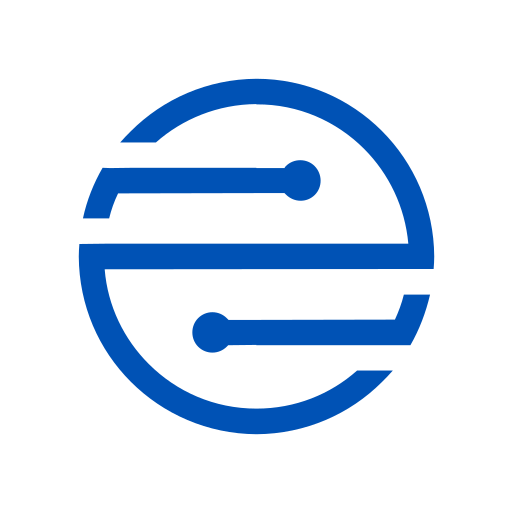
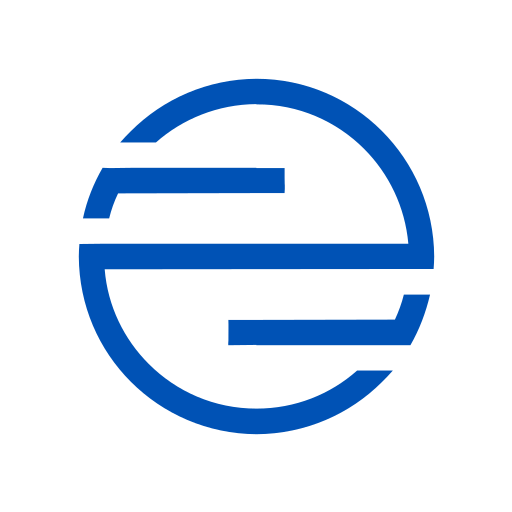
UI images (#107)
* Added alt text to currency

* Added Portofino

* SEO improvements

* Removed console.log

* Updated stats

* Convert to webp

* New logo

* New favicons

* More descriptive link

Changed region(s): [[0.5312, 0.3125, 0.625, 0.4062], [0.375, 0.5938, 0.4688, 0.6875]]

diff --git a/empiric-ui/src/components/Publisher/PublishersSection.tsx b/empiric-ui/src/components/Publisher/PublishersSection.tsx
@@ -11,21 +11,21 @@ export interface PublisherCardProps {
 export const publishers: PublisherCardProps[] = [
   {
     name: "Alameda Research",
-    src: "/assets/publishers/alameda.png",
+    src: "/assets/publishers/alameda.webp",
     description:
       "Alameda Research is one of the leading cryptocurrency high frequency trading firms and liquidity provider. Alameda Research was founded in 2017 by Sam Bankman-Fried. They manage over $1B+ in assets: all major coins, altcoins, as well as their derivatives. \n\n Alameda Research will use their business operations to provide price feeds to the Empiric Network.",
     href: "https://www.alameda-research.com/",
   },
   {
     name: "CMT Digital",
-    src: "/assets/publishers/cmtdigital.png",
+    src: "/assets/publishers/cmtdigital.webp",
     description:
       "CMT is a leading market maker and proprietary trading firm. They have been together for more than two decades and has built a team of professionals with significant trading and technology experiences. CMT operates across five continents.\n\n CMT will provide their reliable and stable crypto market data to the Empiric Network.",
     href: "https://cmt.digital/",
   },
   {
     name: "Flow Traders",
-    src: "/assets/publishers/flow-traders.png",
+    src: "/assets/publishers/flow-traders.webp",
     description:
       "Flow Traders is an established global financial technology-enabled liquidity provider in financial markets. Flow Traders was founded in 2017 and provide liquidity in financial products, historically with a focus on exchange-traded products (ETPs). In recent years, they have diversified the products they trade under virtually all market circumstances.\n\n Flow Traders will contribute its real-time crypto market data directly on-chain to the Empiric Network.",
     href: "https://www.flowtraders.com/",
@@ -46,14 +46,14 @@ export const publishers: PublisherCardProps[] = [
   },
   {
     name: "Jane Street",
-    src: "/assets/publishers/jane-street.png",
+    src: "/assets/publishers/jane-street.webp",
     description:
       "Jane Street is a global liquidity provider and trading firm, using sophisticated quantitative analysis and a deep understanding of market mechanics to help keep the prices consistent and reliable. They traded more than $17 trillion worth of securities in 2020.\n\n Jane Street will provide their accurate low latency crypto data to the Empiric Network.",
     href: "https://www.janestreet.com/",
   },
   {
     name: "Portofino",
-    src: "/assets/publishers/portofino.png",
+    src: "/assets/publishers/portofino.webp",
     description:
       "Portofino is a leading quantitative trading firm providing liquidity and pricing on derivatives exchanges around the world. Portofino Technologies was founded in Zug and has offices around the globe.\n\n Portofino will contribute its unique crypto market data to the Empiric Network.",
   },

diff --git a/empiric-ui/src/components/Protocol/ProtocolSection.tsx b/empiric-ui/src/components/Protocol/ProtocolSection.tsx
@@ -30,7 +30,7 @@ export const protocols: Protocol[] = [
   {
     name: "Magnety",
     category: "Social Wallet",
-    src: "/assets/protocols/magnety.png",
+    src: "/assets/protocols/magnety.webp",
     description:
       "Magnety is an asset management system allowing anyone, such as investment groups, DAOs, or individuals to get the most out of DeFi on Starknet & Ethereum through an easy-to-use platform.",
     href: "https://www.magnety.finance/",
@@ -38,7 +38,7 @@ export const protocols: Protocol[] = [
   {
     name: "FujiDAO",
     category: "Lending",
-    src: "/assets/protocols/fuji-dao.png",
+    src: "/assets/protocols/fuji-dao.webp",
     description:
       "Fuji aggregates lending-borrowing crypto markets within blockchain networks. The protocol optimizes interest rates to both borrowers and lenders by automating routing and movement of funds across lending-borrowing protocols and blockchain networks in search of the best APR.",
     href: "https://www.fujidao.org/",
@@ -54,7 +54,7 @@ export const protocols: Protocol[] = [
   {
     name: "Serity",
     category: "Infrastructure",
-    src: "/assets/protocols/serity.png",
+    src: "/assets/protocols/serity.webp",
     description:
       "Serity is a community-owned protocol powering the creation and trading of yield-backed synthetic assets. They consist of three core pillars: a PCV-backed stable asset, yield-backed synthetics, and an exchange built on a permissionless ZK rollup.",
     href: "https://serity.finance/",
@@ -62,7 +62,7 @@ export const protocols: Protocol[] = [
   {
     name: "CurveZero",
     category: "Lending",
-    src: "/assets/protocols/curvezero.jpeg",
+    src: "/assets/protocols/curvezero.webp",
     description:
       "CurveZero is a lend borrow protocol. Liquidity providers deposit USDC into the protocol and borrowers can access this money at fixed rates and at any term they choose.",
     href: "https://github.com/xan-crypto/CurveZero",

diff --git a/empiric-ui/src/components/AngelsSection.tsx b/empiric-ui/src/components/AngelsSection.tsx
@@ -4,7 +4,7 @@ import { SimpleLogo } from "./LogoClouds/LogoCloud";
 const angels: SimpleLogo[] = [
   {
     name: "Sandeep Nailwal",
-    src: "/assets/angels/polygon.png",
+    src: "/assets/angels/polygon.webp",
   },
   { name: "Marc Bhargava", src: "/assets/angels/coinbase.svg" },
   {
@@ -13,19 +13,15 @@ const angels: SimpleLogo[] = [
   },
   {
     name: "Will Haering",
-    src: "/assets/angels/ponto.png",
+    src: "/assets/angels/ponto.webp",
   },
   {
     name: "Brendan Farmer",
-    src: "/assets/angels/polygon.png",
-  },
-  {
-    name: "Austin King",
-    src: "/assets/angels/rift.png",
+    src: "/assets/angels/polygon.webp",
   },
   {
     name: "Hossein Kakavand",
-    src: "/assets/angels/luther-systems.png",
+    src: "/assets/angels/luther-systems.webp",
   },
   {
     name: "Max Kleiman-Weiner",
@@ -33,23 +29,23 @@ const angels: SimpleLogo[] = [
   },
   {
     name: "Maik Wehmeyer",
-    src: "/assets/angels/taktile.png",
+    src: "/assets/angels/taktile.webp",
   },
   {
     name: "Maximilian Eber",
-    src: "/assets/angels/taktile.png",
+    src: "/assets/angels/taktile.webp",
   },
   {
     name: "Thomas Bailey",
-    src: "/assets/angels/road-capital.png",
+    src: "/assets/angels/road-capital.webp",
   },
   {
     name: "Sina Habibian",
-    src: "/assets/angels/ethereum-foundation.png",
+    src: "/assets/angels/ethereum-foundation.webp",
   },
   {
     name: "Alan Curtis",
-    src: "/assets/angels/radar.png",
+    src: "/assets/angels/radar.webp",
   },
 ];
 

diff --git a/empiric-ui/src/components/InvestorsSection.tsx b/empiric-ui/src/components/InvestorsSection.tsx
@@ -4,27 +4,27 @@ import { Logo } from "./LogoClouds/LogoCloud";
 const investors: Logo[] = [
   {
     name: "Variant Fund",
-    src: "/assets/investors/variant.png",
+    src: "/assets/investors/variant.webp",
     href: "https://variant.fund/",
   },
   {
     name: "Dao5",
-    src: "/assets/investors/dao5.png",
+    src: "/assets/investors/dao5.webp",
     href: "https://dao5.com/",
   },
   {
     name: "Robot Ventures",
-    src: "/assets/investors/robot-ventures.png",
+    src: "/assets/investors/robot-ventures.webp",
     href: "https://robvc.com/",
   },
   {
     name: "Alameda Research",
-    src: "/assets/publishers/alameda.png",
+    src: "/assets/publishers/alameda.webp",
     href: "https://www.alameda-research.com/",
   },
   {
     name: "Jane Street",
-    src: "/assets/publishers/jane-street.png",
+    src: "/assets/publishers/jane-street.webp",
     href: "https://www.janestreet.com/",
   },
   {

diff --git a/empiric-ui/src/pages/_app.tsx b/empiric-ui/src/pages/_app.tsx
@@ -23,17 +23,7 @@ const MyApp = ({ Component, pageProps }: AppProps) => {
   return (
     <>
       <Head>
-<<<<<<< remove-first
-        <title>Empiric Network | ZK-Oracle</title>
         <meta name="robots" content="all" />
-        <meta
-          name="description"
-          content="Empiric Network is the zk-native oracle, bringing the principles of DeFi to data infrastructure: decentralization, transparency and composability.
-          Empiric is the leading oracle on Starknet, powered by high-quality data from the biggest market makers and exchanges, such as Alameda, CMT, Flow Traders, Gemini and Jane Street."
-        ></meta>
-        <link rel="canonical" href="https://www.empiric.network" />
-=======
->>>>>>> master
         <link rel="icon" type="image/ico" href="/favicon.ico" />
         <link
           rel="apple-touch-icon"

diff --git a/empiric-ui/src/components/Features/FeaturesDisplay.tsx b/empiric-ui/src/components/Features/FeaturesDisplay.tsx
@@ -29,7 +29,7 @@ const features: FeatureGridProps[] = [
         ),
       },
     ],
-    imgSrc: "/assets/features/placeholder1.png",
+    imgSrc: "/assets/features/placeholder1.webp",
     imgLeft: false,
   },
   {
@@ -46,7 +46,7 @@ const features: FeatureGridProps[] = [
           "This makes Empiric as decentralized as the underlying zk-rollup networks.",
       },
     ],
-    imgSrc: "/assets/features/placeholder2.png",
+    imgSrc: "/assets/features/placeholder2.webp",
     imgLeft: true,
   },
   {
@@ -63,7 +63,7 @@ const features: FeatureGridProps[] = [
           "We are working with leading protocols to create dynamic yield curves, risk metrics, volatility surfaces and more...",
       },
     ],
-    imgSrc: "/assets/features/placeholder3.png",
+    imgSrc: "/assets/features/placeholder3.webp",
     imgLeft: false,
   },
 ];

diff --git a/empiric-ui/src/pages/index.tsx b/empiric-ui/src/pages/index.tsx
@@ -37,22 +37,22 @@ const stats = [
 const dataPublishers: Logo[] = [
   {
     name: "Alameda Research",
-    src: "/assets/publishers/alameda.png",
+    src: "/assets/publishers/alameda.webp",
     href: "https://www.alameda-research.com/",
   },
   {
     name: "Jane Street",
-    src: "/assets/publishers/jane-street.png",
+    src: "/assets/publishers/jane-street.webp",
     href: "https://www.janestreet.com/",
   },
   {
     name: "CMT Digital",
-    src: "/assets/publishers/cmtdigital.png",
+    src: "/assets/publishers/cmtdigital.webp",
     href: "https://cmt.digital/",
   },
   {
     name: "Flow Traders",
-    src: "/assets/publishers/flow-traders.png",
+    src: "/assets/publishers/flow-traders.webp",
     href: "https://www.flowtraders.com/",
   },
   {

diff --git a/empiric-ui/src/components/Landing/Advisors.tsx b/empiric-ui/src/components/Landing/Advisors.tsx
@@ -10,17 +10,17 @@ const advisors: Advisor[] = [
   {
     name: "guiltygyoza",
     role: "Topology",
-    src: "/assets/advisors/guiltygyoza.png",
+    src: "/assets/advisors/guiltygyoza.webp",
   },
   {
     name: "Peteris Erins",
     role: "Yagi",
-    src: "/assets/advisors/peteris-erins.jpeg",
+    src: "/assets/advisors/peteris-erins.webp",
   },
   {
     name: "Milan Cermak",
     role: "Aura Protocol",
-    src: "/assets/advisors/milan-cermak.jpeg",
+    src: "/assets/advisors/milan-cermak.webp",
   },
 ];
 

diff --git a/empiric-ui/src/components/Banner.tsx b/empiric-ui/src/components/Banner.tsx
@@ -44,7 +44,7 @@ const Banner = () => {
                 rel="noreferrer"
                 className="flex items-center justify-center rounded-md border border-transparent bg-slate-700 px-4 py-2 text-sm font-medium text-white shadow-sm hover:bg-slate-600"
               >
-                Learn more
+                Check status
               </a>
             </div>
             <div className="order-2 flex-shrink-0 sm:order-3 sm:ml-2">

diff --git a/empiric-ui/src/pages/404.tsx b/empiric-ui/src/pages/404.tsx
@@ -7,7 +7,7 @@ const Custom404Page = () => {
     <div className="w-screen grow bg-slate-50 px-6 pt-4 pb-24 sm:px-24 md:px-32 md:pt-12">
       <div className="mx-auto flex max-w-3xl flex-col items-center space-y-8 sm:space-y-10 md:space-y-16">
         <img
-          src="/assets/tourist.png"
+          src="/assets/tourist.webp"
           alt="Broken Clock"
           className="w-32 sm:w-48"
         />

diff --git a/empiric-ui/src/components/Landing/Testimonial.tsx b/empiric-ui/src/components/Landing/Testimonial.tsx
@@ -16,7 +16,7 @@ const Testimonial = () => (
           <div className="flex-shrink-0">
             <img
               className="h-16 w-16 rounded-full lg:h-20 lg:w-20"
-              src="/assets/testimonial/uri-starkware.jpeg"
+              src="/assets/testimonial/uri-starkware.webp"
               alt="Uri Kolodny"
             />
           </div>
